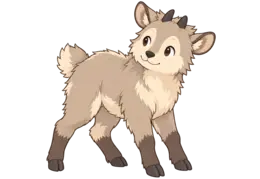
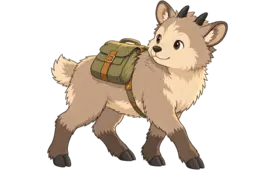
ng16: 換上 6 月版天氣圖與小驚喜（含聞玫瑰）
Claude-Session: https://claude.ai/code/session_01PcAh1eZtA4ZhN7KdjXudwF

diff --git a/sw.js b/sw.js
@@ -1,11 +1,11 @@
 /* 長野春旅行程：App Shell、圖片與已瀏覽內容離線快取 */
-const CACHE_VERSION='nagano-trip-ng15';
+const CACHE_VERSION='nagano-trip-ng16';
 const SHELL_CACHE=`nagano-shell-${CACHE_VERSION}`;
 const RUNTIME_CACHE=`nagano-runtime-${CACHE_VERSION}`;
 /* 圖片快取獨立於版本：更新網站不會清掉已下載的圖片，也不必重新下載 */
 const IMAGE_CACHE='nagano-images-persist';
 const LOCAL_MEDIA_CACHE='nagano-local-media';
-const SHELL=['./', './index.html', './app.js', './style.css', './splash.css', './splash.js', './manifest.webmanifest', './config.js', './fonts/ChenYuluoyan-Thin-sub.woff2', './images/apple-touch-icon.png', './images/art-lodging.webp', './images/art-route.webp', './images/art-shopping.webp', './images/day00.webp', './images/day01.webp', './images/day02.webp', './images/day03.webp', './images/day04.webp', './images/day05.webp', './images/day06.webp', './images/day07.webp', './images/day08.webp', './images/day09.webp', './images/day10.webp', './images/day11.webp', './images/favicon.png', './images/header.webp', './images/icon-192.png', './images/icon-512.png', './images/icon-maskable-512.png', './images/logo.webp', './images/mood-accomplished.webp', './images/mood-amazed.webp', './images/mood-happy.webp', './images/mood-rainy.webp', './images/mood-relaxed.webp', './images/mood-satisfied.webp', './images/mood-sleepy.webp', './images/mood-tired.webp', './images/nav-food.webp', './images/nav-guide.webp', './images/nav-itinerary.webp', './images/nav-lodging.webp', './images/nav-route.webp', './images/nav-shopping.webp', './images/nav-weather.webp', './images/overview.webp', './images/scene-day00.webp', './images/scene-day01.webp', './images/scene-day02.webp', './images/scene-day03.webp', './images/scene-day04.webp', './images/scene-day05.webp', './images/scene-day06.webp', './images/scene-day07.webp', './images/scene-day08.webp', './images/scene-day09.webp', './images/scene-day10.webp', './images/scene-day11.webp', './images/serow-camera.webp', './images/serow-guide.webp', './images/serow-peek.webp', './images/serow-point.webp', './images/serow-rainy.webp', './images/serow-satisfied.webp', './images/serow-shop.webp', './images/serow-sleepy.webp', './images/serow-welcome.webp', './images/sp-jump.webp', './images/sp-look-back.webp', './images/sp-peek.webp', './images/sp-run.webp', './images/sp-sleep.webp', './images/sp-stretch.webp', './images/sp-walk.webp', './images/sp-wisteria.webp', './images/splash-serow-camera.webp', './images/splash-serow-point.webp', './images/splash-serow-welcome.webp', './images/weather/weather-chilly.webp', './images/weather/weather-cloudy.webp', './images/weather/weather-drizzle.webp', './images/weather/weather-fog.webp', './images/weather/weather-partly-cloudy.webp', './images/weather/weather-rain.webp', './images/weather/weather-snow.webp', './images/weather/weather-sunny.webp', './images/weather/weather-thunderstorm.webp', './images/weather/weather-wind.webp', './images/deco/cabin.webp', './images/deco/cedar.webp', './images/deco/cotton-grass.webp', './images/deco/forest-trees.webp', './images/deco/leaves-branch.webp', './images/deco/mountain.webp', './images/deco/mountains-green.webp', './images/deco/mountains-snowcap.webp', './images/deco/petals-floating.webp', './images/deco/rose.webp', './images/deco/stream-stones.webp', './images/deco/tea-cup.webp', './images/deco/wildflowers.webp', './images/deco/wisteria-divider.webp', './images/deco/wisteria-hanging.webp', './images/deco/wisteria-sprig.webp'];
+const SHELL=['./', './index.html', './app.js', './style.css', './splash.css', './splash.js', './manifest.webmanifest', './config.js', './fonts/ChenYuluoyan-Thin-sub.woff2', './images/apple-touch-icon.png', './images/art-lodging.webp', './images/art-route.webp', './images/art-shopping.webp', './images/day00.webp', './images/day01.webp', './images/day02.webp', './images/day03.webp', './images/day04.webp', './images/day05.webp', './images/day06.webp', './images/day07.webp', './images/day08.webp', './images/day09.webp', './images/day10.webp', './images/day11.webp', './images/favicon.png', './images/header.webp', './images/icon-192.png', './images/icon-512.png', './images/icon-maskable-512.png', './images/logo.webp', './images/mood-accomplished.webp', './images/mood-amazed.webp', './images/mood-happy.webp', './images/mood-rainy.webp', './images/mood-relaxed.webp', './images/mood-satisfied.webp', './images/mood-sleepy.webp', './images/mood-tired.webp', './images/nav-food.webp', './images/nav-guide.webp', './images/nav-itinerary.webp', './images/nav-lodging.webp', './images/nav-route.webp', './images/nav-shopping.webp', './images/nav-weather.webp', './images/overview.webp', './images/scene-day00.webp', './images/scene-day01.webp', './images/scene-day02.webp', './images/scene-day03.webp', './images/scene-day04.webp', './images/scene-day05.webp', './images/scene-day06.webp', './images/scene-day07.webp', './images/scene-day08.webp', './images/scene-day09.webp', './images/scene-day10.webp', './images/scene-day11.webp', './images/serow-camera.webp', './images/serow-guide.webp', './images/serow-peek.webp', './images/serow-point.webp', './images/serow-rainy.webp', './images/serow-satisfied.webp', './images/serow-shop.webp', './images/serow-sleepy.webp', './images/serow-welcome.webp', './images/sp-jump.webp', './images/sp-look-back.webp', './images/sp-peek.webp', './images/sp-rose.webp', './images/sp-run.webp', './images/sp-sleep.webp', './images/sp-stretch.webp', './images/sp-walk.webp', './images/splash-serow-camera.webp', './images/splash-serow-point.webp', './images/splash-serow-welcome.webp', './images/weather/weather-chilly.webp', './images/weather/weather-cloudy.webp', './images/weather/weather-drizzle.webp', './images/weather/weather-fog.webp', './images/weather/weather-partly-cloudy.webp', './images/weather/weather-rain.webp', './images/weather/weather-snow.webp', './images/weather/weather-sunny.webp', './images/weather/weather-thunderstorm.webp', './images/weather/weather-wind.webp', './images/deco/cabin.webp', './images/deco/cedar.webp', './images/deco/cotton-grass.webp', './images/deco/forest-trees.webp', './images/deco/leaves-branch.webp', './images/deco/mountain.webp', './images/deco/mountains-green.webp', './images/deco/mountains-snowcap.webp', './images/deco/petals-floating.webp', './images/deco/rose.webp', './images/deco/stream-stones.webp', './images/deco/tea-cup.webp', './images/deco/wildflowers.webp', './images/deco/wisteria-divider.webp', './images/deco/wisteria-hanging.webp', './images/deco/wisteria-sprig.webp'];
 
 self.addEventListener('install',event=>{
   self.skipWaiting();

diff --git a/index.html b/index.html
@@ -17,8 +17,8 @@ window.__repairApp=function(){var done=function(){var u=location.pathname+'?fres
 window.addEventListener('load',function(){setTimeout(function(){if(window.__appReady)return;var b=box();if(!b)return;b.innerHTML='<b>⚠ 網站程式沒有正常啟動</b><div style="margin:6px 0;font-size:13px;word-break:break-all">'+(window.__appReady?'':'主程式 app.js 沒有跑完。<br>')+errs.slice(0,5).map(function(x){return x.replace(/</g,'&lt;');}).join('<br>')+'<br><small>'+navigator.userAgent.replace(/</g,'')+'</small></div><button type="button" onclick="__repairApp()" style="width:100%;min-height:48px;border:0;border-radius:12px;background:#3B6A5A;color:#fff;font:inherit;font-weight:800">清除舊版快取並重新載入（資料不會刪除）</button><div style="margin-top:6px;font-size:13px">如果還是不行，請把這個畫面截圖傳給我。</div>';},2500);});
 })();</script>
 <link rel="manifest" href="manifest.webmanifest">
-<link rel="icon" type="image/png" sizes="64x64" href="images/favicon.png?v=ng15">
-<link rel="apple-touch-icon" href="images/apple-touch-icon.png?v=ng15">
+<link rel="icon" type="image/png" sizes="64x64" href="images/favicon.png?v=ng16">
+<link rel="apple-touch-icon" href="images/apple-touch-icon.png?v=ng16">
 <meta name="mobile-web-app-capable" content="yes">
 <meta name="apple-mobile-web-app-capable" content="yes">
 <meta name="apple-mobile-web-app-title" content="隨雲入山">
@@ -32,8 +32,8 @@ window.addEventListener('load',function(){setTimeout(function(){if(window.__appR
 <link rel="preconnect" href="https://fonts.googleapis.com">
 <link href="https://fonts.googleapis.com/css2?family=LXGW+WenKai+TC:wght@300;400;700&family=Caveat:wght@500;700&family=Zen+Kaku+Gothic+New:wght@400;500;700;900&display=swap" rel="stylesheet">
 <link rel="preload" href="fonts/ChenYuluoyan-Thin-sub.woff2" as="font" type="font/woff2" crossorigin>
-<link rel="stylesheet" href="style.css?v=ng15">
-<link rel="stylesheet" href="splash.css?v=ng15">
+<link rel="stylesheet" href="style.css?v=ng16">
+<link rel="stylesheet" href="splash.css?v=ng16">
 </head>
 <body class="family-locked">
 <div id="naganoSplash" class="splash" hidden aria-label="雲停下的地方 載入中">
@@ -49,7 +49,7 @@ window.addEventListener('load',function(){setTimeout(function(){if(window.__appR
     <div class="splash__title"><strong>雲停下的地方</strong><span>沿著山路與湖光，住進十二天的初夏</span></div>
   </div>
 </div>
-<script src="splash.js?v=ng15"></script>
+<script src="splash.js?v=ng16"></script>
 
 <div id="familyGate" class="family-gate" aria-hidden="false">
   <div class="family-gate-card">
@@ -339,8 +339,8 @@ window.addEventListener('load',function(){setTimeout(function(){if(window.__appR
 
 <input type="file" id="restoreFile" accept="application/json,.json" style="display:none" onchange="restoreBackupFile(event)">
 
-<script src="config.js?v=ng15"></script>
-<script src="app.js?v=ng15"></script>
+<script src="config.js?v=ng16"></script>
+<script src="app.js?v=ng16"></script>
 
 
 

diff --git a/app.js b/app.js
@@ -2474,7 +2474,7 @@ window.addEventListener('offline', updateNetStatus);
 /* ============ Service Worker（離線快取整個網頁） ============ */
 if (navigator.serviceWorker) {
   window.addEventListener('load', () => {
-    navigator.serviceWorker.register('./sw.js?v=ng15').then(()=>navigator.serviceWorker.ready).catch(()=>{});
+    navigator.serviceWorker.register('./sw.js?v=ng16').then(()=>navigator.serviceWorker.ready).catch(()=>{});
   });
 }
 document.addEventListener('error',e=>{if(e.target?.tagName==='IMG')imageErrorFallback(e.target);},true);
@@ -2976,7 +2976,7 @@ const TENKI_LINKS={
 /* =====================================================================
    v48：收藏／預約狀態／提醒、自駕即時路況、版本與同步比對
    ===================================================================== */
-const APP_VERSION='ng15-2026-10-18';
+const APP_VERSION='ng16-2026-10-18';
 
 /* ---------- 收藏 ★／預約狀態／提醒 ---------- */
 let marksStore=(()=>{try{const v=JSON.parse(localStorage.getItem('shinshu_marks'));return v&&typeof v==='object'&&!Array.isArray(v)?v:{};}catch(e){return {};}})();
@@ -3656,7 +3656,7 @@ function critterBusy(){
   return document.hidden||reducedMotion()||document.body.classList.contains('mama-open')||document.body.classList.contains('family-locked')||!!document.getElementById('formModal')||!!document.getElementById('toolsSheet')||!!document.getElementById('surpriseCard')||!!document.getElementById('spotEditModal')?.classList.contains('active');
 }
 /* ng2：角落探頭用整隻小羚羊（有道具） */
-const PEEK_IMGS=['peek','look-back','walk','run','jump','wisteria','stretch','sleep'].map(n=>`images/sp-${n}.webp`);
+const PEEK_IMGS=['peek','look-back','walk','run','jump','rose','stretch','sleep'].map(n=>`images/sp-${n}.webp`);
 function pickCritter(){let img,n=0;do{img=PEEK_IMGS[Math.floor(Math.random()*PEEK_IMGS.length)];n++;}while(img===critter.last&&n<6);critter.last=img;return img;}
 function leafBurst(x,y){
   const l=critterLayer();
@@ -4500,7 +4500,7 @@ function transportAddBarHTML(dayIdx){
 }
 
 /* ---------- 新插圖用在合適的地方 ---------- */
-const SURPRISE_ART={tip:'images/sp-wisteria.webp',joke:'images/sp-jump.webp',care:'images/sp-sleep.webp',photo:'images/sp-look-back.webp'};
+const SURPRISE_ART={tip:'images/sp-rose.webp',joke:'images/sp-jump.webp',care:'images/sp-sleep.webp',photo:'images/sp-look-back.webp'};
 (function extendArt(){
   CRITTER_IMGS.push(ART.suitcase,ART.photo,ART.heart,ART.rain,ART.search,ART.car);
 })();

diff --git a/README.md b/README.md
@@ -4,6 +4,11 @@
 
 由北海道「雪羽慢旅 hk28」改版而來，北海道與京都網站之前調整過的功能全部沿用：家人同步、離線 PWA、開場動畫、每日交通、MaMa 筆記、小驚喜、收藏與預約、出發前待辦、每日回顧、標點處換行、字放大、手機上放大的按鈕，以及只保留用到的字、瘦身過的手寫標題字型。內容與風格換成長野春天。
 
+## ng16（6 月版天氣圖與小驚喜）
+
+1. **天氣圖換成 6 月版 8 張**：晴天、晴時多雲、多雲、細雨、下雨、風較強、霧、偏冷。下雪、雷雨的備用圖這次沒有新版，沿用舊圖。
+2. **小驚喜換成 6 月版 8 張**：探頭、回頭、往山裡走、輕快奔跑、跳過小石、聞一朵玫瑰、伸懶腰、午睡。紫藤那張換成「聞玫瑰」，小知識卡也改配這張。
+
 ## ng15（改回 6/4 富山取車；每日插圖全部換新）
 
 1. **6/4 改成富山取車**，直接開往白馬，走北陸道接國道 148，約 2～2.5 小時（估算）。6/12 照舊在長野還車。
